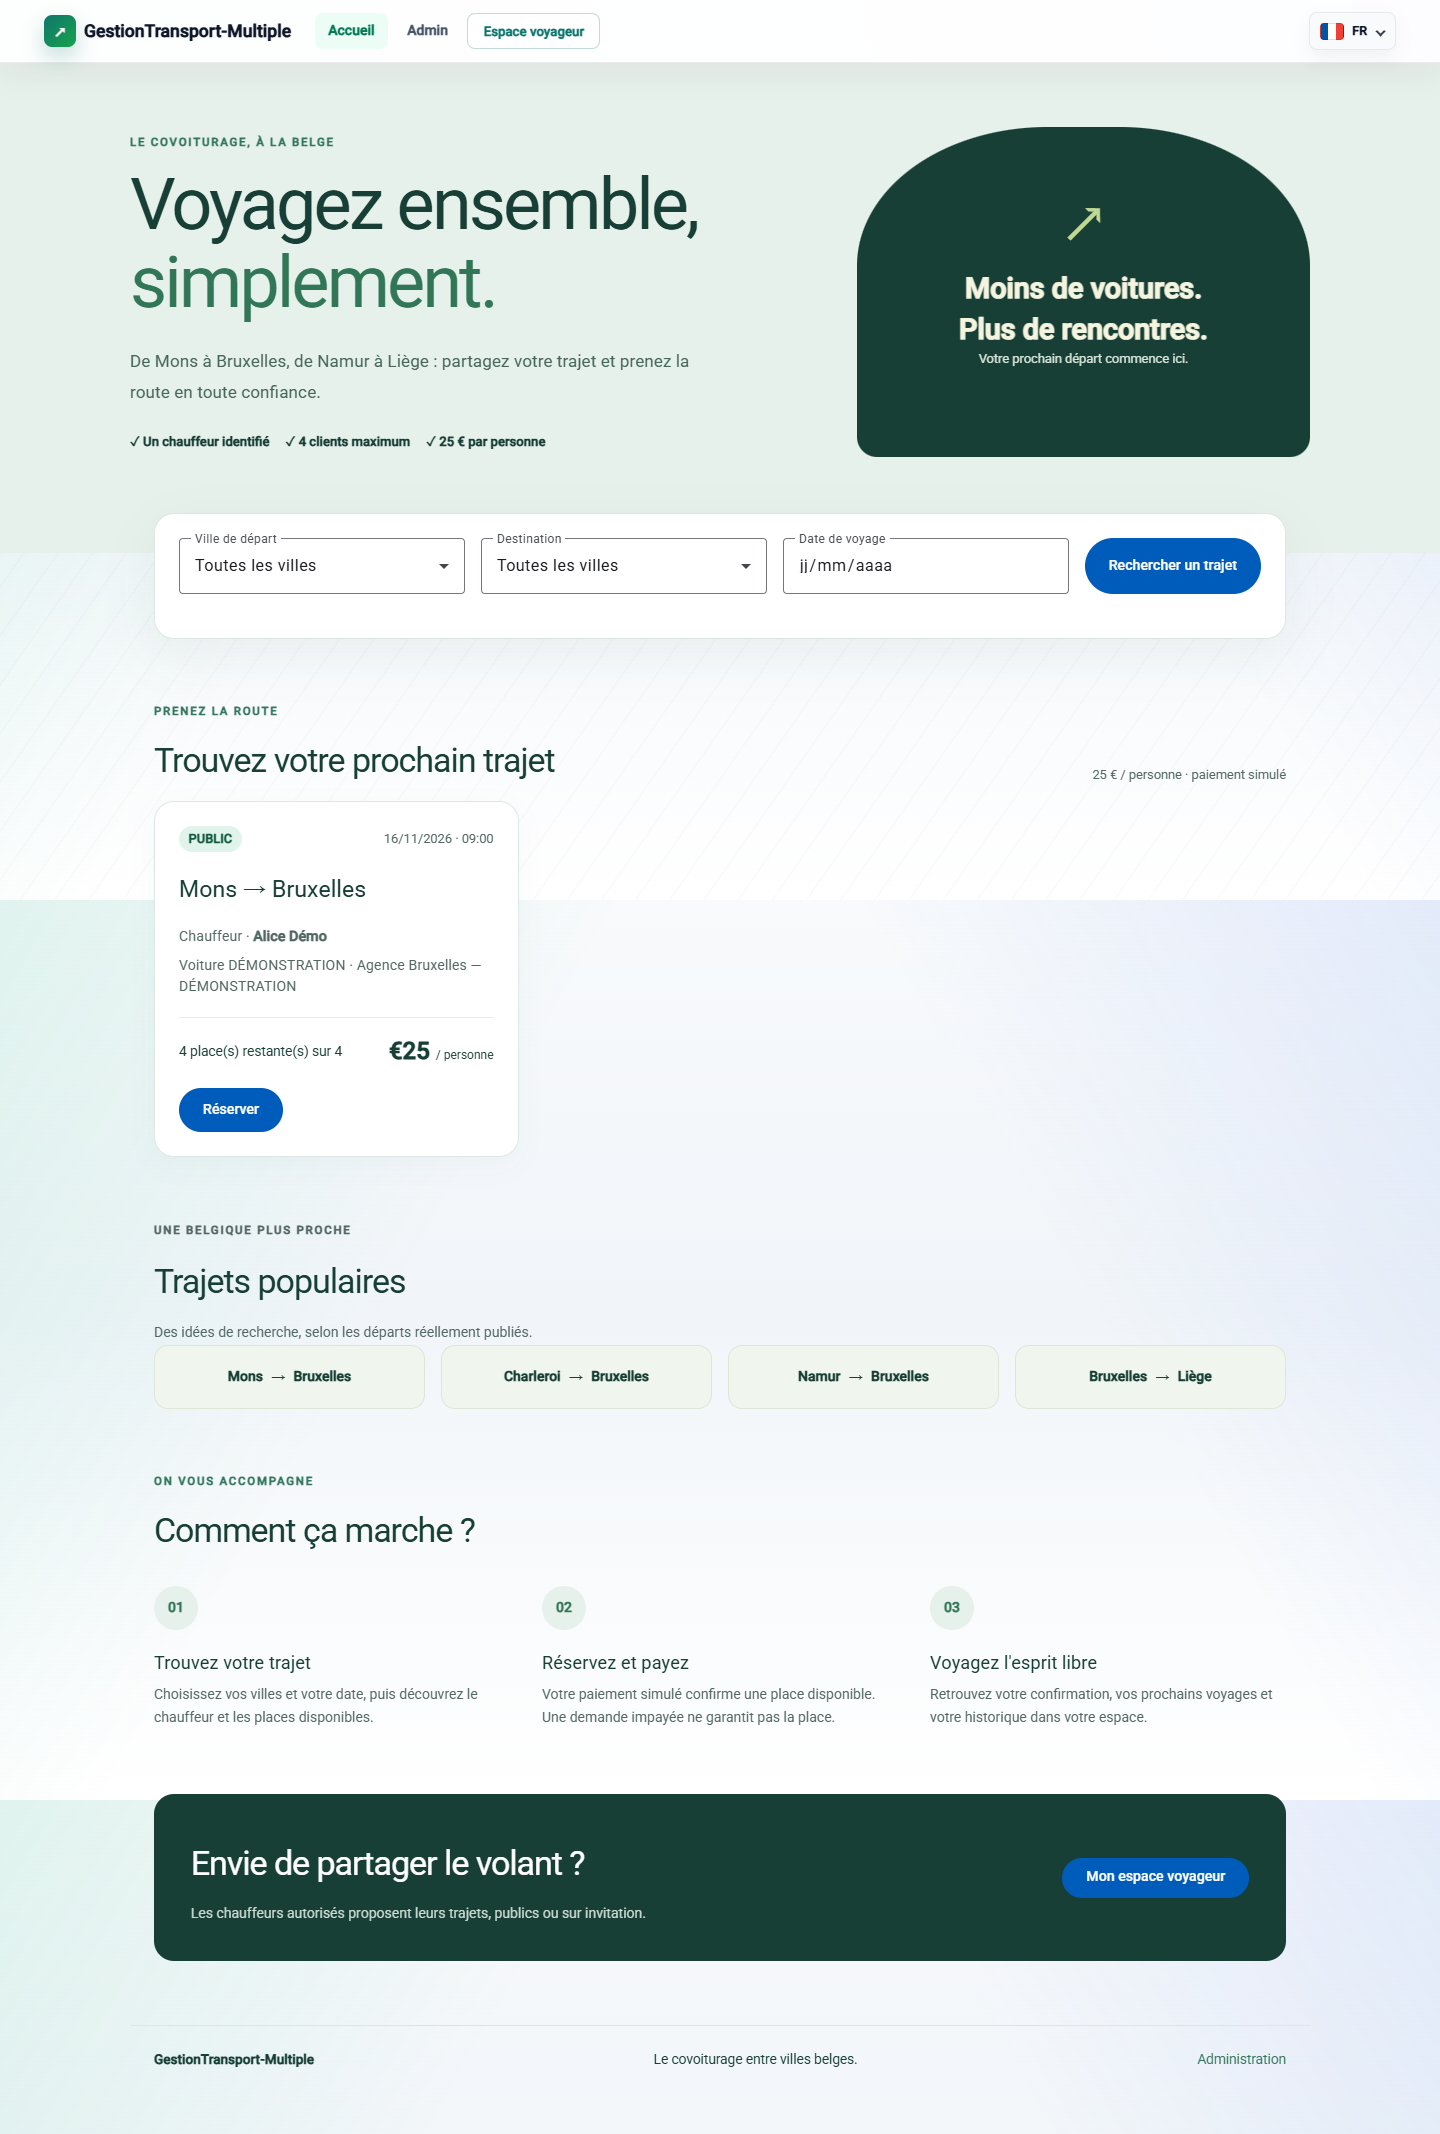
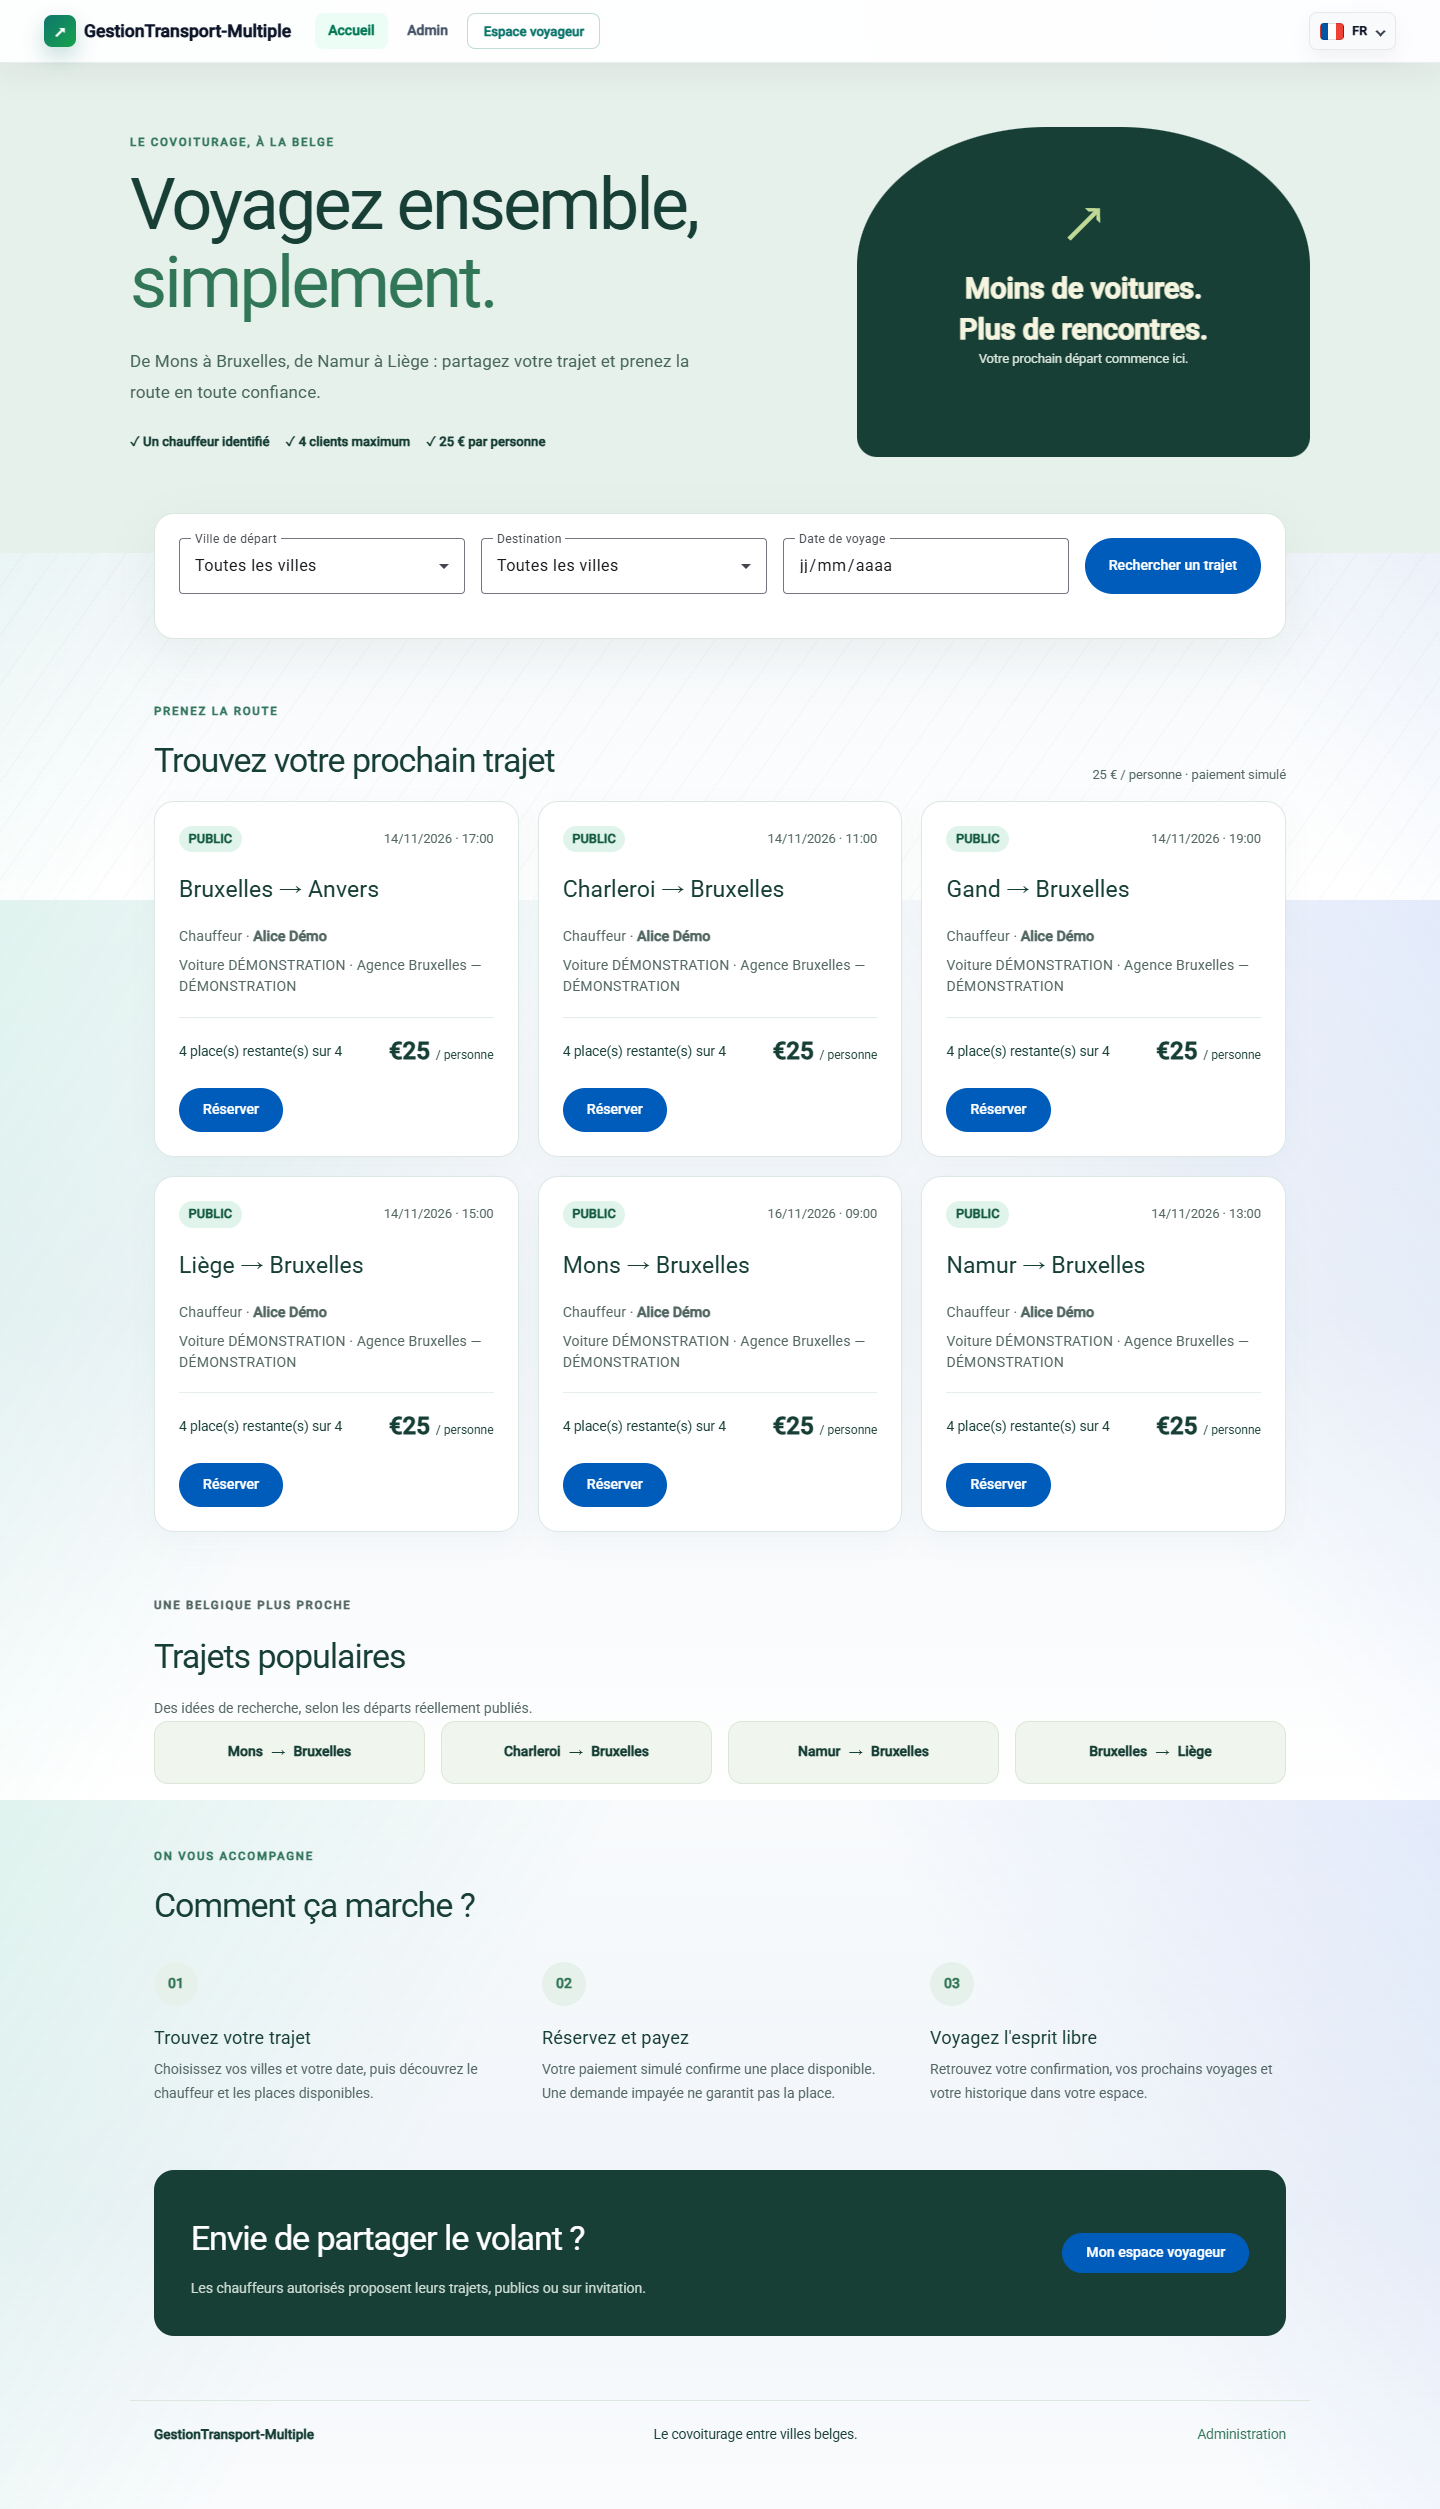
docs(issue-7): consigner la validation de soutenance et les commandes

diff --git a/docs/covoiturage/issue-7-validation.md b/docs/covoiturage/issue-7-validation.md
@@ -1,5 +1,92 @@
 # Issue #7 — Intégration et validation
 
+## Finalisation soutenance du 12 novembre 2026 — PR #18
+
+Branche : `feature/issue-4-soutenance-finalisation`, depuis `develop` après fusion
+de la PR #17 (`679c0c3`). Issues #4 (restrictions), #6 (administration Angular)
+et #7 (validation/livraison). `master` n'a pas été modifiée directement.
+
+Les résultats des sections suivantes sur la PR #17 sont conservés comme historique.
+Pour la PR #18, les logs de [CI 43277688472](https://github.com/Zoom225/GestionTransport-Multiple/actions/runs/43277688472)
+sur `715f02c181a755cdc379b2ecfa45185d88561d6a` établissent :
+
+| Contrôle effectivement exécuté en CI | Résultat |
+| --- | --- |
+| Java 21, `bash ./mvnw -B verify` | 155 tests, zéro échec, zéro erreur, zéro ignoré ; build réussi |
+| PostgreSQL 15 isolé | 15 tests réels inclus, contraintes, concurrence, absence administrative, dette et restrictions |
+| Node 24, `npm ci` | Installation réussie depuis le verrou npm |
+| Angular 21.2.26, `npm test` | 63 tests réussis |
+| Angular, `npm run build` | Build de production réussi |
+
+Localement, `mvn -B clean verify` a aussi réussi avec 154 tests avant l'ajout du
+contrôle BCrypt (155 ensuite en CI). Les relances locales sur le port 5440 ont
+rencontré `SocketTimeoutException: Read timed out`, puis une disparition du conteneur
+Docker et `Connection refused`. Le volume historique est resté présent. La remise
+en service par `docker compose up -d` a réutilisé `padellaoutt_padel-db-data` ; les
+huit paiements métier étaient toujours présents. Aucune suppression ni réinitialisation.
+Une instance PostgreSQL de validation distincte, sans volume métier, est ensuite
+utilisée sur le port 5541. Ces incidents ne sont pas présentés comme des tests réussis.
+
+### Résultats locaux finaux
+
+- `mvn -B verify`, URL `jdbc:postgresql://127.0.0.1:5541/issue1_validation_soutenance` :
+  **155 tests, dont 15 PostgreSQL, zéro échec/erreur/ignoré**, build réussi.
+- Frontend : **`npm ci`, `npm run build` et 63 tests `npm test` réussis** avec le
+  verrou de correctifs Angular 21.2.26, sans modifier les versions majeures.
+- `node scripts/validation-covoiturage.cjs` : réussi sur
+  `transport_demo_soutenance_20261112192048`, backend 18081 et build Angular 4201.
+  JWT global/local/chauffeur et trois catégories, privé/invitations/consentement,
+  cinq demandes sans retenue de place, quatre paiements de 25 € (100 €), deux
+  paiements concurrents pour la dernière place, annulation/remboursement et réutilisation,
+  conflits chauffeur/véhicule et périmètre d'agence vérifiés via REST.
+- Navigateur Edge : réservation et paiement depuis Angular, confirmation et trois
+  places restantes contrôlées par REST, profil, historique, administration/statistiques,
+  annulation chauffeur et remboursement conservé. **Aucune erreur JavaScript**.
+- **Neuf contrôles responsive réussis**, sans débordement horizontal : accueil,
+  réservations authentifiées et administration, chacun à **375, 768 et 1440 px**.
+  Capture d'accueil actualisée dans `docs/images/accueil-transport-demonstration.png`.
+  Rapport complet et captures supplémentaires dans `target/browser-validation`, hors Git.
+- Compilation IntelliJ réussie, sans compilation Maven concurrente. Aucun fichier
+  `.log`, `.env`, `target/*` ou `frontend/dist/*` suivi par Git ; recherche de signatures
+  de clés privées et jetons courants sans résultat dans les sources/documentation.
+- Redémarrage dev sur la même base isolée non vide avec un autre secret de démonstration :
+  initialisation ignorée, empreinte des identifiants/hachages de mots de passe inchangée.
+  **`/v3/api-docs` HTTP 200 et `/swagger-ui.html` HTTP 200** après redirection vérifiés.
+
+La première tentative de démonstration a révélé un mot de passe d'environnement
+de plus de 72 octets, refusé par BCrypt. L'initialiseur refuse désormais ce cas
+avant toute insertion ; un test le vérifie. Générer par exemple 32 octets aléatoires
+encodés en Base64 pour DEMO_PASSWORD, séparément des 64 octets de JWT_SECRET.
+
+### Sécurité et dépendances
+
+L'audit initial npm signalait 51 alertes, dont deux critiques et 21 hautes ; sept
+concernaient les dépendances de production. Les correctifs restent dans Angular 21
+(21.2.26) et les versions majeures déjà déclarées pour les outils. Aucune nouvelle
+bibliothèque fonctionnelle. Le verrou a été résolu puis vérifié par `npm ci` en CI,
+sans `--force` ni `--legacy-peer-deps`. `npm audit --omit=dev --json` retourne zéro
+vulnérabilité de production. L'audit complet laisse 16 alertes modérées sur l'outillage :
+ne pas les confondre avec zéro risque global, ni exposer un serveur de développement
+sur Internet. Les migrations SQL sont additives ; aucune donnée historique recalculée.
+
+### Trame de soutenance
+
+1. Présenter l'architecture Controller → Service → Repository et les DTO/mappers,
+   puis Angular (services API, guard, interceptor) et PostgreSQL. Voir le README.
+2. Expliquer chauffeur obligatoire, quatre clients, prix 25 €, catégories et privé
+   avec consentement de publication. Voir `analyse-metier.md`.
+3. Montrer le diagramme et les FK/index/contraintes dans `modele-donnees.md`.
+4. Démarrer Docker, une base dev isolée, Spring Boot puis Angular avec les commandes
+   PowerShell du README ; ouvrir Swagger et effectuer le parcours de réservation.
+5. Montrer paiement simulé, historique, remboursement, statistiques et restrictions.
+6. Expliquer la transaction de paiement et le verrou de la dernière place, puis
+   les tests PostgreSQL concurrents et la CI. Aucun service bancaire réel.
+
+Les branches métier ciblent `develop`. Une PR distincte de `develop` vers `master`
+est requise pour la livraison, avec CI sur cette cible et sans fusion automatique.
+
+## Historique de la PR #17
+
 Branche : `feature/issue-7-integration-validation`, depuis develop après la PR #16.
 Pull request : [#17](https://github.com/Zoom225/GestionTransport-Multiple/pull/17), vers develop.
 

diff --git a/README.md b/README.md
@@ -203,7 +203,7 @@ Pour une présentation, privilégier la base de démonstration isolée décrite 
 | DB_URL                  | Connexion PostgreSQL                                          | localhost:5440/transportService        |
 | DB_USER / DB_PASSWORD   | Identifiants du serveur                                       | transport / transport en développement |
 | DEMO_DATA_ENABLED       | Activation explicite de la démonstration                      | false                                  |
-| DEMO_PASSWORD           | Mot de passe des comptes de démonstration, min. 12 caractères | Aucun                                  |
+| DEMO_PASSWORD           | Mot de passe démo, min. 12 caractères, max. 72 octets UTF-8 | Aucun                                  |
 | RESERVATION_PAYMENT_TTL | Délai ISO-8601 de paiement                                    | PT30M                                  |
 | RESTRICTION_DAYS        | Durée d'une restriction validée                               | 7                                      |
 | SERVER_PORT             | Port HTTP Spring Boot                                         | 8080                                   |
@@ -247,7 +247,7 @@ $env:DB_URL = "jdbc:postgresql://localhost:5440/$baseDemoTransport"
 $env:DB_USER = 'transport'
 $env:DB_PASSWORD = 'transport'
 $env:DEMO_DATA_ENABLED = 'true'
-$secretDemoTransport = Read-Host 'Mot de passe de démonstration (12 caractères minimum)' -AsSecureString
+$secretDemoTransport = Read-Host 'Mot de passe de démonstration (min. 12 caractères, max. 72 octets UTF-8)' -AsSecureString
 $pointeurDemoTransport = [Runtime.InteropServices.Marshal]::SecureStringToBSTR($secretDemoTransport)
 try { $env:DEMO_PASSWORD = [Runtime.InteropServices.Marshal]::PtrToStringBSTR($pointeurDemoTransport) }
 finally { [Runtime.InteropServices.Marshal]::ZeroFreeBSTR($pointeurDemoTransport) }
@@ -267,8 +267,8 @@ Comptes créés uniquement dans cette base de démonstration :
 | Administrateur | agence@example.test | Gestionnaire de l'agence de démonstration |
 
 Le mot de passe est celui fourni par `DEMO_PASSWORD`.
-Le trajet de démonstration est clairement nommé et propose quatre places,
-sans réservation du chauffeur. Il n'est jamais inséré automatiquement dans la base métier.
+Les huit trajets de démonstration proposent chacun quatre places,
+sans réservation du chauffeur. Ils ne sont jamais insérés automatiquement dans la base métier.
 
 Parcours de présentation :
 
@@ -340,6 +340,7 @@ Toutes les PR ciblent `develop`. Les branches fonctionnelles partent du dernier
 | #5    | feature/issue-5-transport-api               | [#15](https://github.com/Zoom225/GestionTransport-Multiple/pull/15)                                                                    |
 | #6    | feature/issue-6-transport-frontend          | [#16](https://github.com/Zoom225/GestionTransport-Multiple/pull/16)                                                                    |
 | #7 | feature/issue-7-integration-validation | [#17](https://github.com/Zoom225/GestionTransport-Multiple/pull/17) |
+| #4, #6, #7 | feature/issue-4-soutenance-finalisation | [#18](https://github.com/Zoom225/GestionTransport-Multiple/pull/18) |
 
 Documents à lire pour présenter le projet :
 
@@ -353,6 +354,11 @@ Documents à lire pour présenter le projet :
 - [Audit initial historique](docs/audit-initial.md) et [exécutions de baseline](docs/baseline-execution.md).
 
 ## Candidat de soutenance — finalisation issues #4 et #7
+
+Dernière validation : **155 tests backend dont 15 PostgreSQL**, **63 tests Angular**,
+builds réussis et [CI réussie](https://github.com/Zoom225/GestionTransport-Multiple/actions/runs/43277688472).
+Le parcours réel de réservation/paiement/remboursement et neuf contrôles responsive
+à 375, 768 et 1440 px ont réussi sur une base de démonstration isolée.
 
 Les archives locales sont conservées dans `.local-validation/`, hors Git et hors
 `target` : `mvn clean` ne les supprime pas. Le diff local de `pom.xml` reste hors commit.
